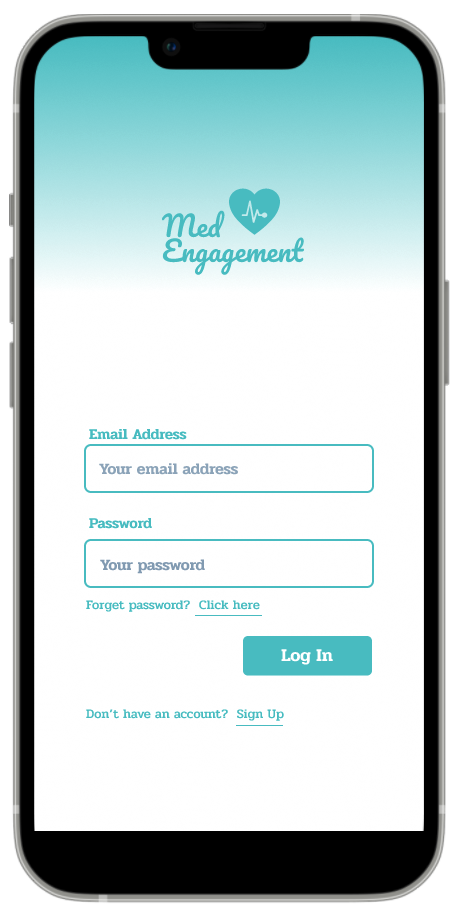
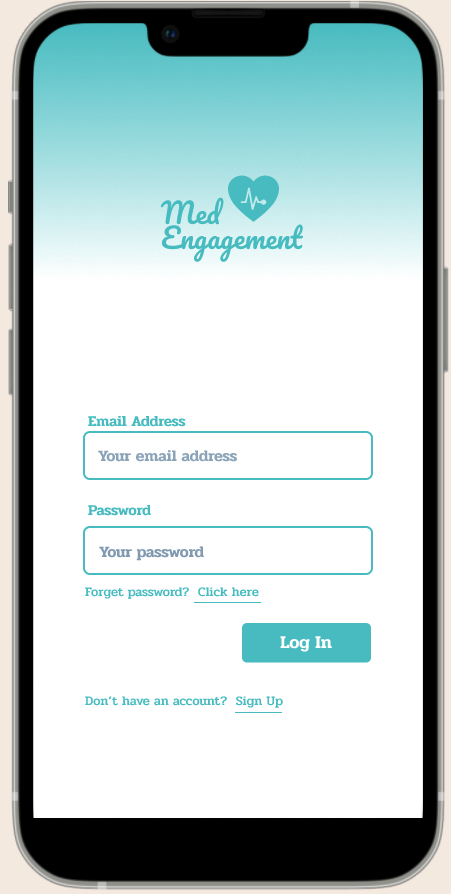
03/17/third

diff --git a/medapp.html b/medapp.html
@@ -51,7 +51,7 @@
     <div class="background">
         <h2>Background</h2>
         <h3>Get your medicine records, Lab results, Doctor appointments with one tap. </h3>
-        <p>Carrie is a pharmacist and a teacher who advocates wellness and healthy living. Being a pharmacist for more than 10 years, she handled so many patients by preparing and dispensing prescriptions to them. She always cares about her patients. She wants to build an app that <span style="color:rgb(28, 20, 20);font-weight:550;">helps users to check their medication and medical record anytime, anywhere.</span></p>
+        <p>Carrie is a pharmacist and a teacher who advocates wellness and healthy living. Being a pharmacist for more than 10 years, she handled so many patients by preparing and dispensing prescriptions to them. She always cares about her patients. She wants to build an app that <span style="color:#567899;font-weight:550;">helps users to check their medication and medical record anytime, anywhere.</span></p>
     </div>
     <div class="problem-statement">
         <h2>Problem</h2>
@@ -62,11 +62,11 @@
         <p>- Develop an app that can sync with doctors and health professionals for consultation and feedback, while tracking and engaging individuals with their health. </p>
         <h3>The Old Design</h3>
         <p>To assure my perspective matches the objectives, I asked Carrie about the purpose to redesign this app. Who are the target audiences? What is the priority task of the app? etc.</p>
-        <img style="width:34%; border: 1px solid #767676; margin-right: 15px;" src="images/medapp/medapp.png" alt="medapp"><img style="width: 50%; border: 1px solid #767676;" src="images/medapp/email.png" alt="email">
+        <img style="width:34%; border: 1px solid #767676; margin-right: 15px;" src="images/medapp/medapp.png" alt="medapp"><img style="width: 50%; border: 1px solid #567899;" src="images/medapp/email.png" alt="email">
         <h3>Goals</h3>
-        <p><span style="color:rgb(28, 20, 20);font-weight:550;">* Could we democratize medical information, especially making patients' medication lists portable?</span></p>
-        <p><span style="color:rgb(28, 20, 20);font-weight:550;">* How can we create a possible way for patients to track their own medical progress, instead of only relying on physicians and others? </span></p>
-        <p><span style="color:rgb(28, 20, 20);font-weight:550;">* How might we create a more comfortable and delightful experience for something that usually causes worry for the patients.</span></p>
+        <p><span style="color:#567899;font-weight:550;">* Could we democratize medical information, especially making patients' medication lists portable?</span></p>
+        <p><span style="color:#567899;font-weight:550;">* How can we create a possible way for patients to track their own medical progress, instead of only relying on physicians and others? </span></p>
+        <p><span style="color:#567899;font-weight:550;">* How might we create a more comfortable and delightful experience for something that usually causes worry for the patients.</span></p>
         <img src="images/medapp/prototype.png" alt="prototype" class="header-prototype">
         <div class="protobutton">
             <a href="https://www.figma.com/proto/PCYrTW5UFugI4LylH7QIVX/Untitled?page-id=0%3A1&node-id=51%3A32&viewport=340%2C48%2C0.5&scaling=scale-down&starting-point-node-id=51%3A32"><strong>Try Out the Prototype</strong></a>
@@ -76,24 +76,24 @@
         <h2>Marketplace Research</h2>
         <h3>Has Mobile Health Technologies grown? Most Americans Want to Share and Access More Digital Health Data</h3>
         <p>In 2020, the U.S. Core Data for Interoperability (USCDI) finalized a rule requiring that EHRs make that data available to patients and health care organizations using APIs; the rule will take effect in December 2022. Since then patients will get easier to see their medical records. 
-               PEW(The Pew Charitable Trusts) conducted a survey to 1,213 Americans(ages 18+) of what information do patients want to share and access, <span style="color:rgb(28, 20, 20);font-weight:550;">the top five data patients like to know could be the opportunities of ME mobile app.</span>
+               PEW(The Pew Charitable Trusts) conducted a survey to 1,213 Americans(ages 18+) of what information do patients want to share and access, <span style="color:#567899;font-weight:550;">the top five data patients like to know could be the opportunities of ME mobile app.</span>
         </p>
         <img src="images/medapp/1.png" alt="chart1"><img src="images/medapp/2.png" alt="chart2">
         <img style="width: 90%; padding-top: 6%;padding-bottom: 6%;" src="images/medapp/top5.png" alt="top5data">
         <h3>Who are our competitors? Are there any gaps in the market?</h3>
-        <p>There are thousands of Health-related apps online, including Fitness Tracking, Meditation courses, Medication reminder, Sleep tracking. etc. I narrowed it down with apps that only focus on tracking your medication or medical record,  and <span style="color:rgb(28, 20, 20);font-weight:550;">I got three popular ones. <i>HEALOW, MYCHART, FOLLOWMYHEALTH.</i></span>  </p>
+        <p>There are thousands of Health-related apps online, including Fitness Tracking, Meditation courses, Medication reminder, Sleep tracking. etc. I narrowed it down with apps that only focus on tracking your medication or medical record,  and <span style="color:#567899;font-weight:550;">I got three popular ones. <i>HEALOW, MYCHART, FOLLOWMYHEALTH.</i></span>  </p>
         <img style="width: 90%; padding-top: 6%;padding-bottom: 6%;" src="images/medapp/competitor.png" alt="competitor analysis">
         <img style="width: 90%; padding-top: 6%;padding-bottom: 6%;"  src="images/medapp/swot.png" alt="swot analysis">
     </div>
     <div class="interview">
         <h2>User Interview</h2>
         <h3>Let Users to decide the two core components of the app</h3>
-        <p>Carrie asked some of her patients the challenges they faced when meeting a doctor or tracking their health records. Based on the feedback, we determined two components required in the ME app. <span style="color:rgb(28, 20, 20);font-weight:550;">"Schedule appointment" and "Check Medication and Medical Record on mobile".</span></p>
+        <p>Carrie asked some of her patients the challenges they faced when meeting a doctor or tracking their health records. Based on the feedback, we determined two components required in the ME app. <span style="color:#567899;font-weight:550;">"Schedule appointment" and "Check Medication and Medical Record on mobile".</span></p>
         <img style="width: 47%;" src="images/medapp/empathy1.png" alt="empathy map1"> <img  style="width:43.5%;" src="images/medapp/empathy2.png" alt="empathy map2">
     </div>
     <div class="defineuserflow">
         <h2>Define</h2>
-        <p>I presented the market research with other team members, combined with Carrie's User Interview, I created a <span style="color:rgb(28, 20, 20);font-weight:550;">User Flow</span> for the two core functionalities before designing the wireframe.</p>
+        <p>I presented the market research with other team members, combined with Carrie's User Interview, I created a <span style="color:#567899;font-weight:550;">User Flow</span> for the two core functionalities before designing the wireframe.</p>
         <img style="width: 95%;padding-bottom: 6%;" src="images/medapp/userflow.png" alt="userflow">
     </div>
     <div class="design">

diff --git a/css/medapp.css b/css/medapp.css
@@ -6,7 +6,7 @@ html {
 }
 body {
     overflow-x: hidden; /* Hide horizontal scrollbar */
-    color: rgb(44, 45, 72);
+    color:  rgb(44, 45, 72);
 }
 h2 {
     /* font-family: 'Bebas Neue', cursive; */
@@ -14,7 +14,7 @@ h2 {
     font-weight: 700;
     font-style: normal;
     font-size: 2em;
-    text-decoration: underline 5px solid  rgb(146, 242, 245);
+    text-decoration: underline 5px solid #567899
 }
 h3 {
     /* font-family: 'Bebas Neue', cursive; */
@@ -35,7 +35,7 @@ p {
 
 a {
     text-decoration: none;
-    color: black;
+    color:rgb(44, 45, 72);
     font-family: Lato, sans-serif;
 }
 header{
@@ -43,7 +43,7 @@ header{
     padding: 1.5em;
     display: flex;
     justify-content: space-between;
-    background-color: white;
+    background-color: #f6ece3;
 }
 header a{
     font-size: 2.3em;
@@ -68,7 +68,7 @@ nav{
     position: fixed; 
     right:0;
     top: 0;
-    background: #1CE9B8;
+    background: 567899;
     height: 100vh;
     width: 50%;
     z-index: 999;
@@ -87,7 +87,7 @@ nav a {
     display: block;
 }
 nav a:hover {
-    background-color: rgb(28, 27, 27);
+    background-color: #567899;
     color: rgb(242, 240, 240);
 }
 .close{
@@ -98,13 +98,16 @@ nav a:hover {
 
 /* main-contemt */
 .heroimage {
-    width: 100%;
+    display: block;
+    width: 70%;
+    margin-left: auto;
+    margin-right: auto;
 }
 
 .hero-header{
     display: block;
     /* border-top:  5px solid rgb(162, 210, 252); */
-    border-top:  5px solid  rgb(146, 242, 245);
+    /* border-top:  5px solid  rgb(146, 242, 245); */
 }
 .header-detail{
     display: inline-block;
@@ -171,34 +174,39 @@ nav a:hover {
 /* button prototype */
 .protobutton {
     display: block;
-    width: 30%;
+    width: 25%;
     padding: .9em;
     text-align: center;
     border-radius: 6px;
-    border: 4px solid black;
+    background-color:rgb(44, 45, 72);
+    color:white;
     margin-left: auto;
     margin-right: auto;
+}
+.protobutton a{
+    color:white;
+}
+.protobutton:hover {
+    background-color:#567899;
+    border-radius: 6px;
 }
 
-.protobutton:hover {
-    background-color:rgb(146, 242, 245);
-    border: 4px solid white;
-    border-radius: 6px;
-}
 .protofirst {
     display: block;
-    margin-bottom: 6%;
-    width: 30%;
+    width: 25%;
     padding: .9em;
     text-align: center;
     border-radius: 6px;
-    border: 4px solid black;
+    background-color:rgb(44, 45, 72);
+    color:white;
     margin-left: auto;
     margin-right: auto;
 }
+.protofirst a{
+    color:white;
+}
 .protofirst:hover {
-    background-color:rgb(146, 242, 245);
-    border: 4px solid white;
+    background-color:#567899;
     border-radius: 6px;
 }
 .research {
@@ -261,6 +269,7 @@ nav a:hover {
 }
 .present-wireframe h3{
     font-size: 1.2em;
+    color: #567899;
 }
 .prototype{
     display: block;
@@ -319,19 +328,21 @@ nav a:hover {
 }
 
 .footer a {
-    color:black;
+    color: rgb(44, 45, 72);
     font-size: 1.2em;
     font-family: acumin-pro-condensed,sans-serif;
     font-weight: 700;
     font-style: normal;
 }
 .footer a:hover {
-    background-color: rgb(146, 242, 245);
+    background-color:  #567899;
+    color:white;
 }
 
 #myBtn {
     font-size: 1.2em;
-    color: black;
+    color:  rgb(44, 45, 72);
+ 
     font-family: acumin-pro-condensed,sans-serif;
     font-weight: 700;
     font-style: normal;
@@ -340,7 +351,8 @@ nav a:hover {
     background: none;
 }
 #myBtn:hover {
-    background-color:rgb(146, 242, 245);
+    background-color: #567899;
+    color:white;
 }
 
 .open-nav {
@@ -374,7 +386,7 @@ nav a:hover {
     nav a:hover {
         background: none;
         color: black;
-        text-decoration: underline 5px solid #1CE9B8;
+        text-decoration: underline 5px solid #567899;
     }
     .header-detail{
         display: inline-block;
